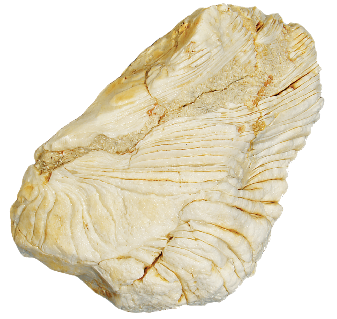
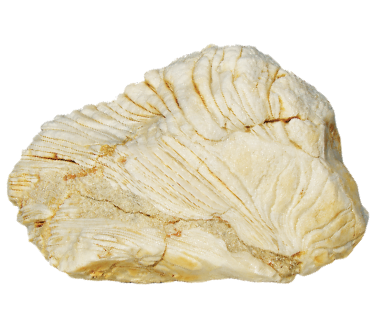
Fix Style

diff --git a/assets/css/style.css b/assets/css/style.css
@@ -156,7 +156,7 @@ html[dir="rtl"] .btn:hover .btn__arrow{transform:scaleX(-1) translateX(4px);}
 .brand__emblem{height:38px;width:auto;filter:drop-shadow(0 1px 2px rgba(0,0,0,.4));}
 .brand__text{display:flex;flex-direction:column;line-height:1;}
 .brand__name{font-family:var(--font-display);font-weight:600;font-size:20px;letter-spacing:.22em;color:var(--stone-50);}
-.brand__tag{font-family:var(--font-sans);font-size:8.5px;font-weight:600;letter-spacing:.34em;text-transform:uppercase;color:var(--gold-300);margin-top:5px;}
+.brand__tag{font-family:var(--font-sans);font-size:8.5px;font-weight:600;letter-spacing:.34em;text-transform:uppercase;color:var(--gold-300);margin-top:5px;white-space: nowrap;}
 html[lang="ar"] .brand__name{font-family:var(--font-ar-display);letter-spacing:.06em;}
 html[lang="ar"] .brand__tag{font-family:var(--font-ar-sans);letter-spacing:.12em;}
 
@@ -192,6 +192,8 @@ html[lang="ar"] .lang-menu button{font-family:var(--font-ar-sans);}
 
 .burger{display:none;background:transparent;border:0;cursor:pointer;color:var(--stone-50);padding:6px;}
 .burger .ic{width:26px;height:26px;}
+
+@media(max-width:425px){.header__inner{padding-inline: 1rem;gap: 1rem;} .nav-right{gap: 8px;} #langLabel{display:none;}}
 
 /* mobile drawer */
 .drawer{position:fixed;inset:0;z-index:200;visibility:hidden;pointer-events:none;}